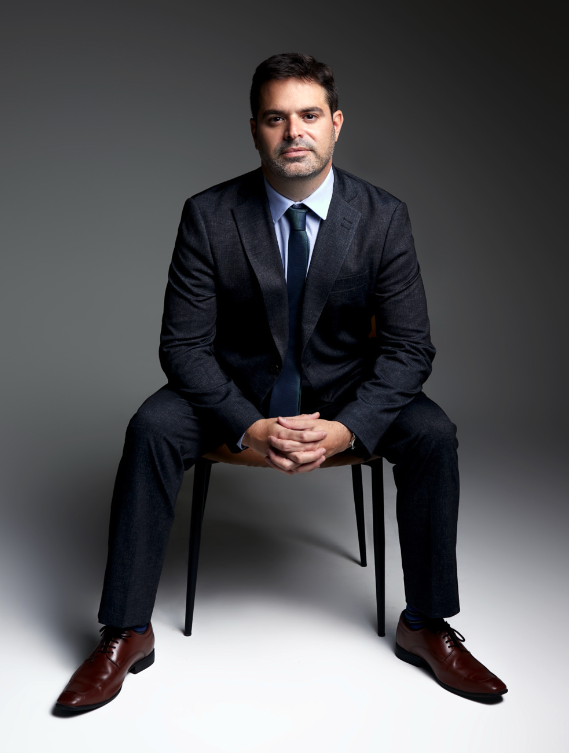
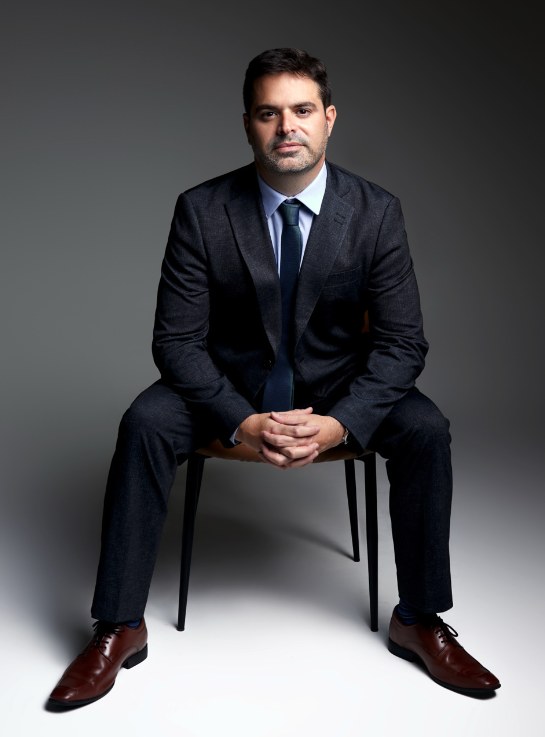
Changes

diff --git a/src/components/AboutDoctorSection.tsx b/src/components/AboutDoctorSection.tsx
@@ -51,7 +51,7 @@ const AboutDoctorSection = () => {
               <img
                 src={doctorPhoto}
                 alt="Dr. Gustavo de Oliveira Mota – Urologista"
-                className="relative rounded-2xl shadow-elevated w-full object-cover max-h-[520px]"
+                className="relative rounded-2xl shadow-elevated w-full object-cover object-top max-h-[520px]"
               />
             </div>
           </motion.div>
